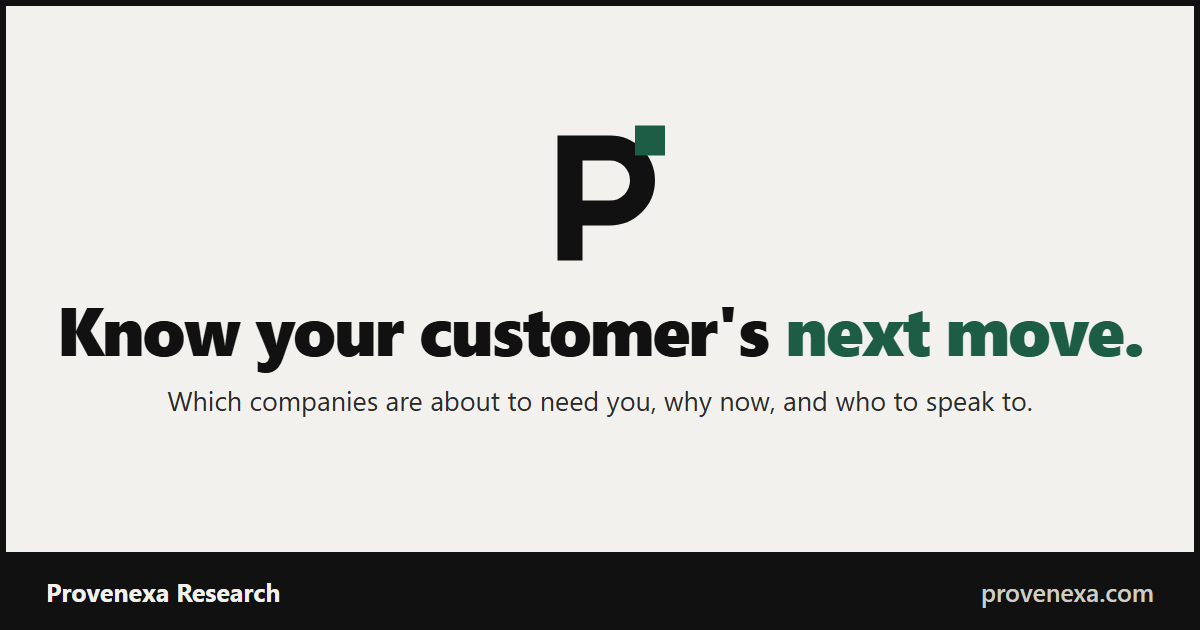
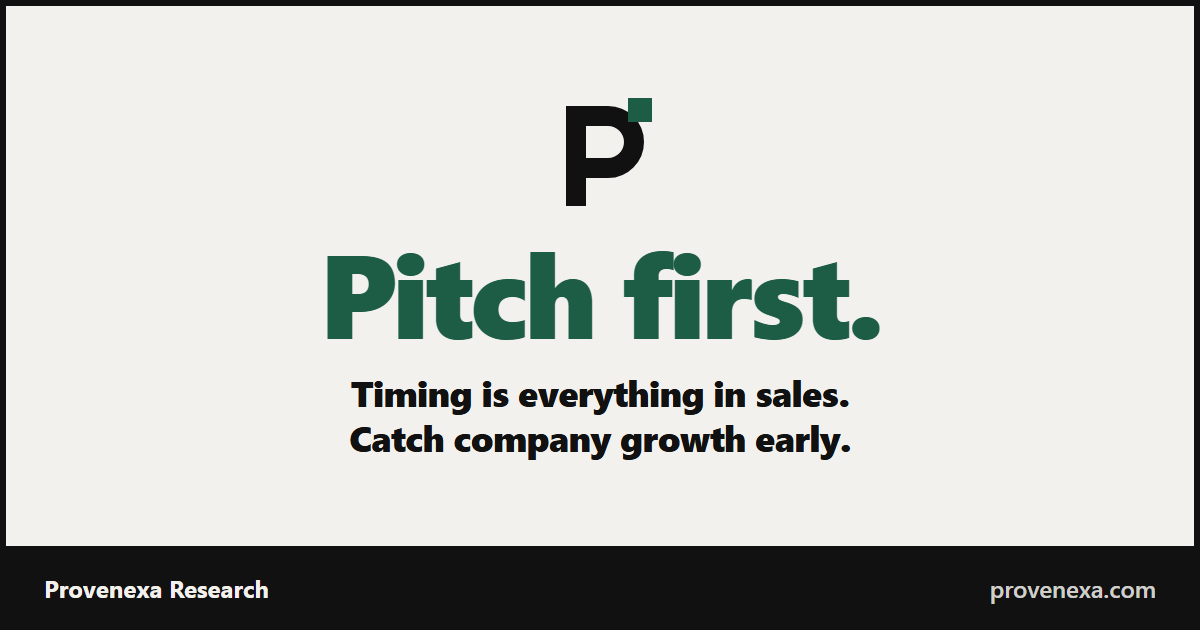
Link preview card: 'Pitch first.'
New Swiss share image for provenexa.com (LinkedIn, WhatsApp); cache version bumped to v3.

diff --git a/index.html b/index.html
@@ -9,11 +9,11 @@
 <meta property="og:description" content="Next Moves: which companies are about to need you, why now, and who to speak to, from what India's companies are actually doing.">
 <meta property="og:type" content="website">
 <meta property="og:url" content="https://provenexa.com/">
-<meta property="og:image" content="https://provenexa.com/assets/og-image.png?v=2">
+<meta property="og:image" content="https://provenexa.com/assets/og-image.png?v=3">
 <meta property="og:image:width" content="1200">
 <meta property="og:image:height" content="630">
 <meta name="twitter:card" content="summary_large_image">
-<meta name="twitter:image" content="https://provenexa.com/assets/og-image.png?v=2">
+<meta name="twitter:image" content="https://provenexa.com/assets/og-image.png?v=3">
 <link rel="canonical" href="https://provenexa.com/">
 <meta name="google-site-verification" content="8HSP3A97LVanHLhP1kN_m2rXasVxwuPOJGKvV4p4OnE">
 <script type="application/ld+json">
@@ -28,7 +28,7 @@
       "alternateName": "Provenexa",
       "url": "https://provenexa.com/",
       "logo": "https://provenexa.com/assets/icon-512.png",
-      "image": "https://provenexa.com/assets/og-image.png?v=2",
+      "image": "https://provenexa.com/assets/og-image.png?v=3",
       "email": "research@provenexa.com",
       "description": "Provenexa tells sales teams which Indian companies are about to need them, why now and who to speak to, from public information, each traced to its source.",
       "areaServed": "IN",

diff --git a/use-cases/index.html b/use-cases/index.html
@@ -8,7 +8,7 @@
 <link rel="canonical" href="https://provenexa.com/use-cases/">
 <meta property="og:title" content="Use cases · Provenexa Research">
 <meta property="og:description" content="Timing is everything in sales. Catch company growth early. Pitch first.">
-<meta property="og:image" content="https://provenexa.com/assets/og-image.png?v=2">
+<meta property="og:image" content="https://provenexa.com/assets/og-image.png?v=3">
 <link rel="icon" href="../assets/favicon.svg" type="image/svg+xml">
 <link rel="icon" href="../assets/favicon-32.png" sizes="32x32">
 <link rel="apple-touch-icon" href="../assets/apple-touch-icon.png">

diff --git a/ledger/index.html b/ledger/index.html
@@ -9,7 +9,7 @@
 <meta property="og:description" content="New plants, expansions, clearances and tenders across India, sorted by the firms that can act on them, each with its source.">
 <meta property="og:type" content="website">
 <meta property="og:url" content="https://provenexa.com/ledger/">
-<meta property="og:image" content="https://provenexa.com/assets/og-image.png?v=2">
+<meta property="og:image" content="https://provenexa.com/assets/og-image.png?v=3">
 <meta name="twitter:card" content="summary_large_image">
 <link rel="canonical" href="https://provenexa.com/ledger/">
 <meta name="robots" content="noindex">
